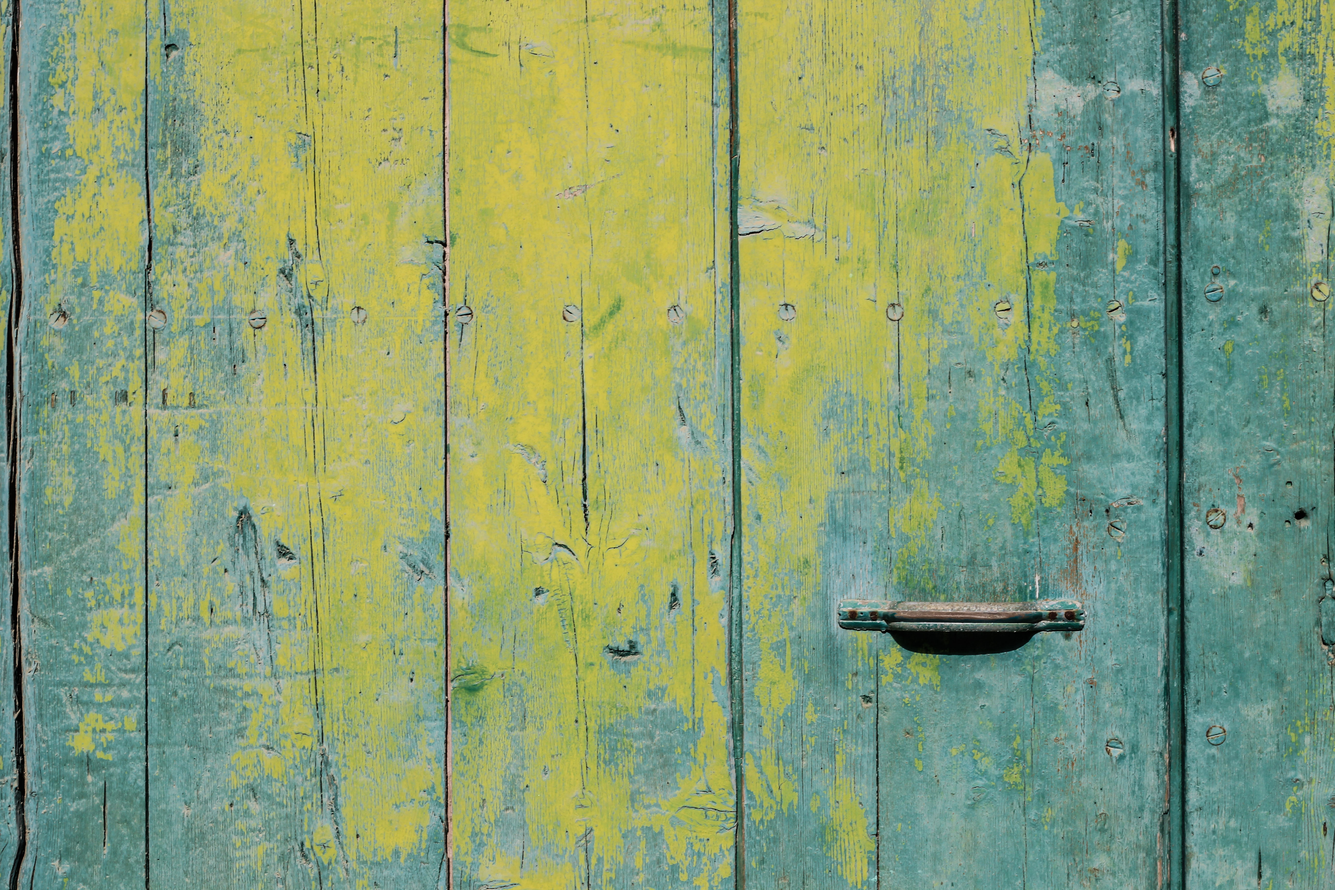
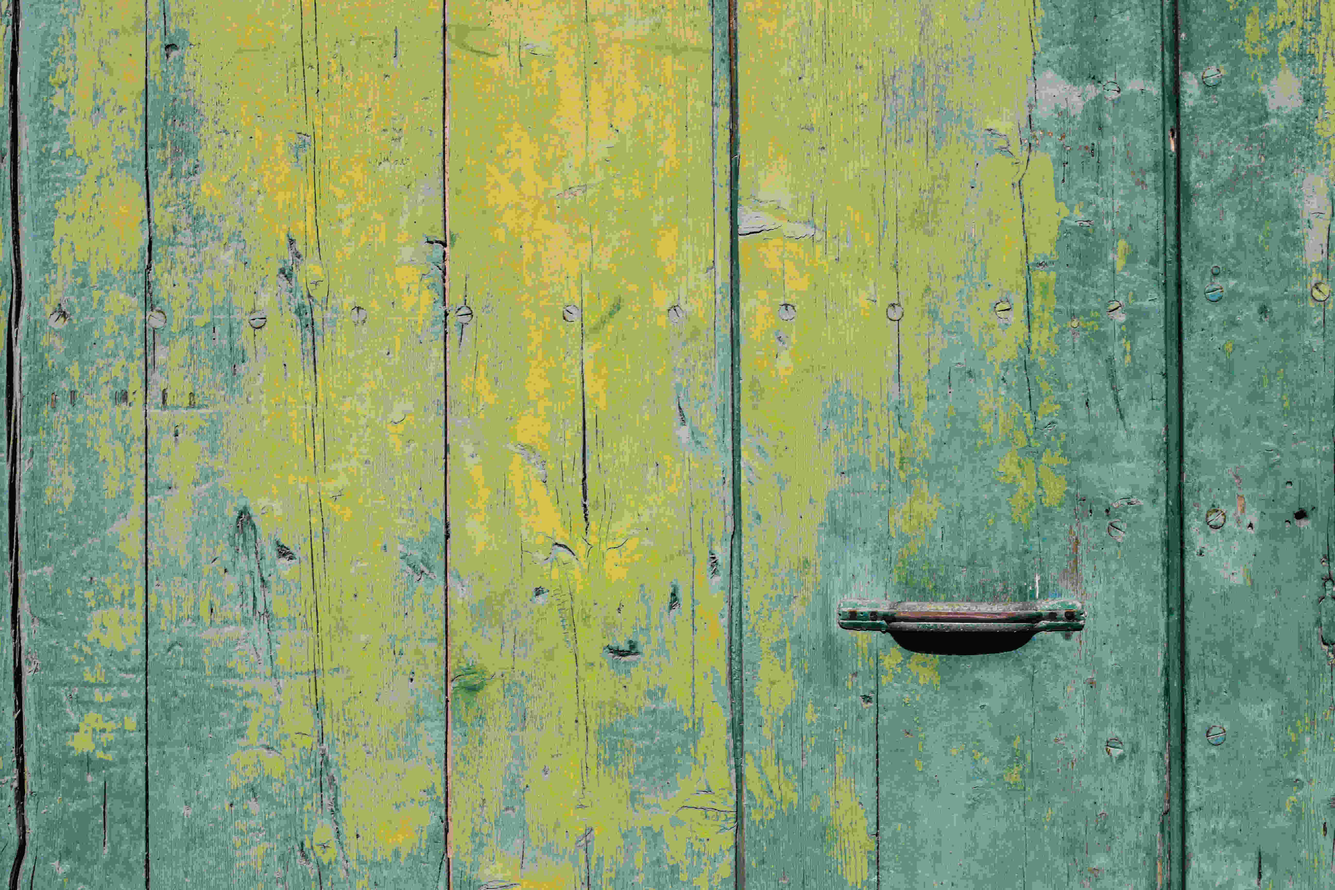
调整登陆注册对话框图片

diff --git a/src/main/resources/templates/admin/sign.html b/src/main/resources/templates/admin/sign.html
@@ -52,7 +52,7 @@
 <body>
 <div style="margin: 0 auto; padding-bottom: 0%; padding-top: 7.5%; width: 380px;">
     <div class="panel panel-color panel-danger panel-pages panel-shadow">
-        <div class="panel-heading bg-img">
+        <div class="panel-heading bg-img-sign">
             <div class="bg-overlay"></div>
             <h3 class="text-center m-t-10"> Sign My Blog</h3>
         </div>

diff --git a/src/main/resources/static/admin/css/style.min.css b/src/main/resources/static/admin/css/style.min.css
@@ -3701,6 +3701,10 @@ body.fixed-left .side-menu.left {
     background: url(../images/small/bg.jpg) center
 }
 
+.bg-img-sign {
+    background: url(../images/small/bg2.jpg) center
+}
+
 .bg-overlay {
     -moz-border-radius: 6px 6px 0 0;
     -webkit-border-radius: 6px 6px 0 0;
